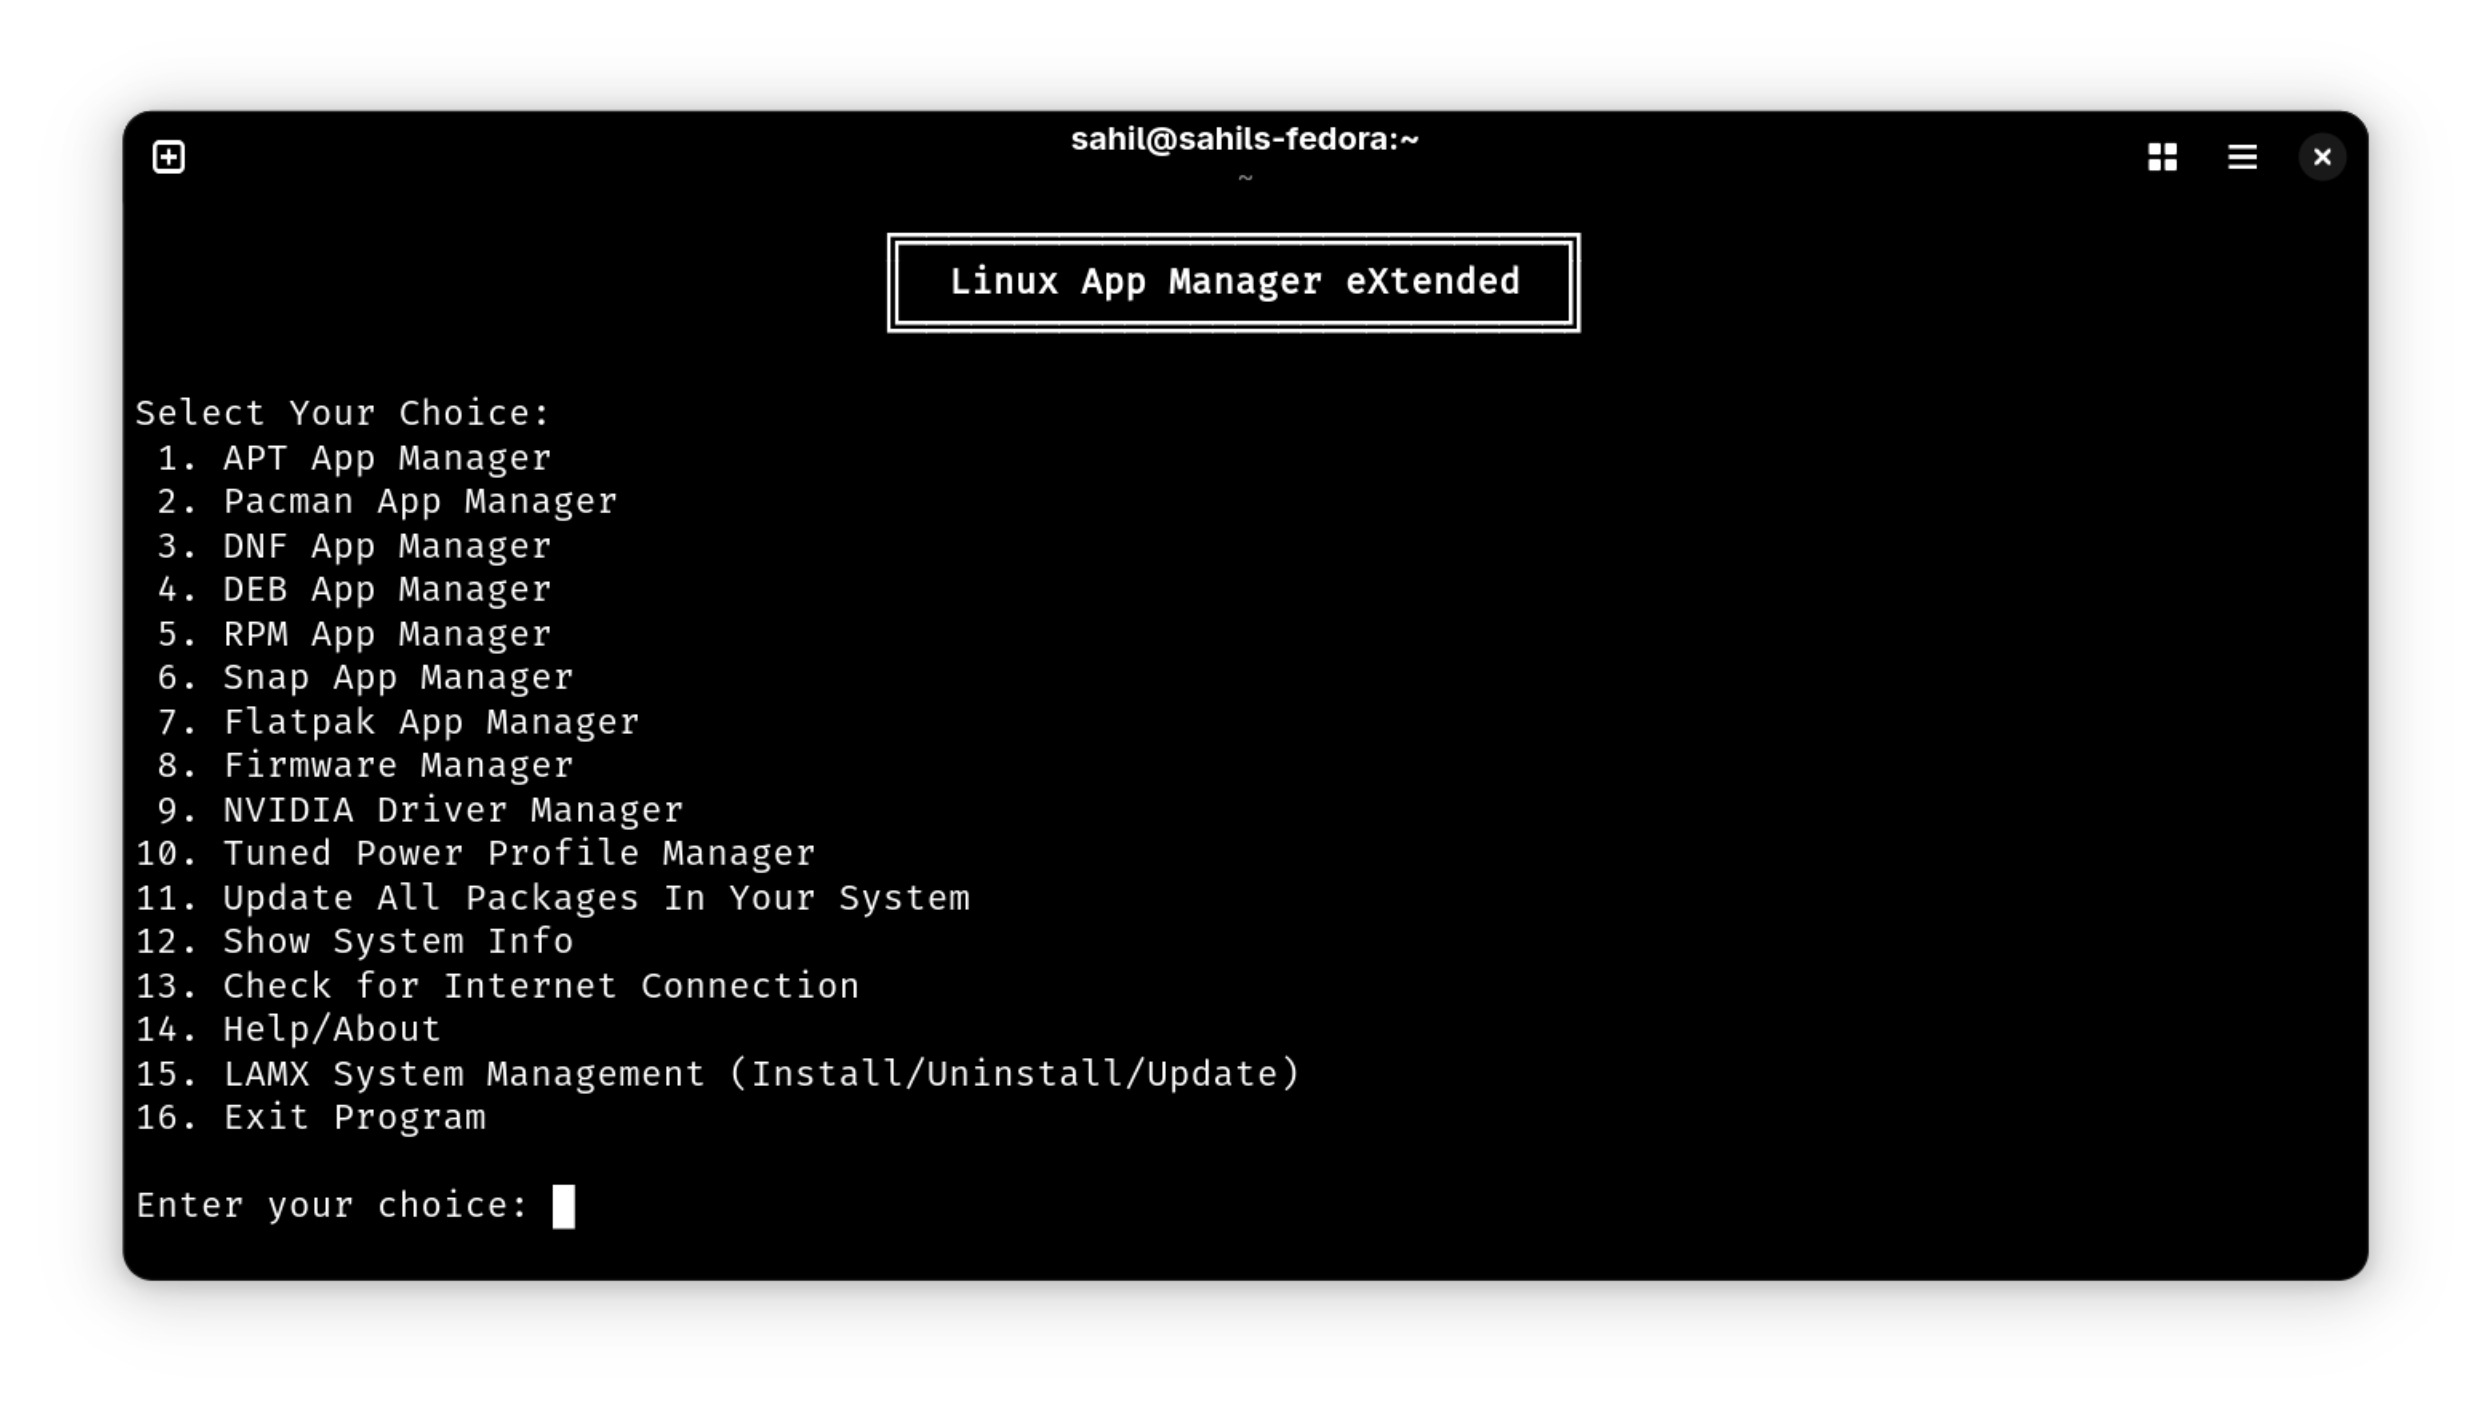
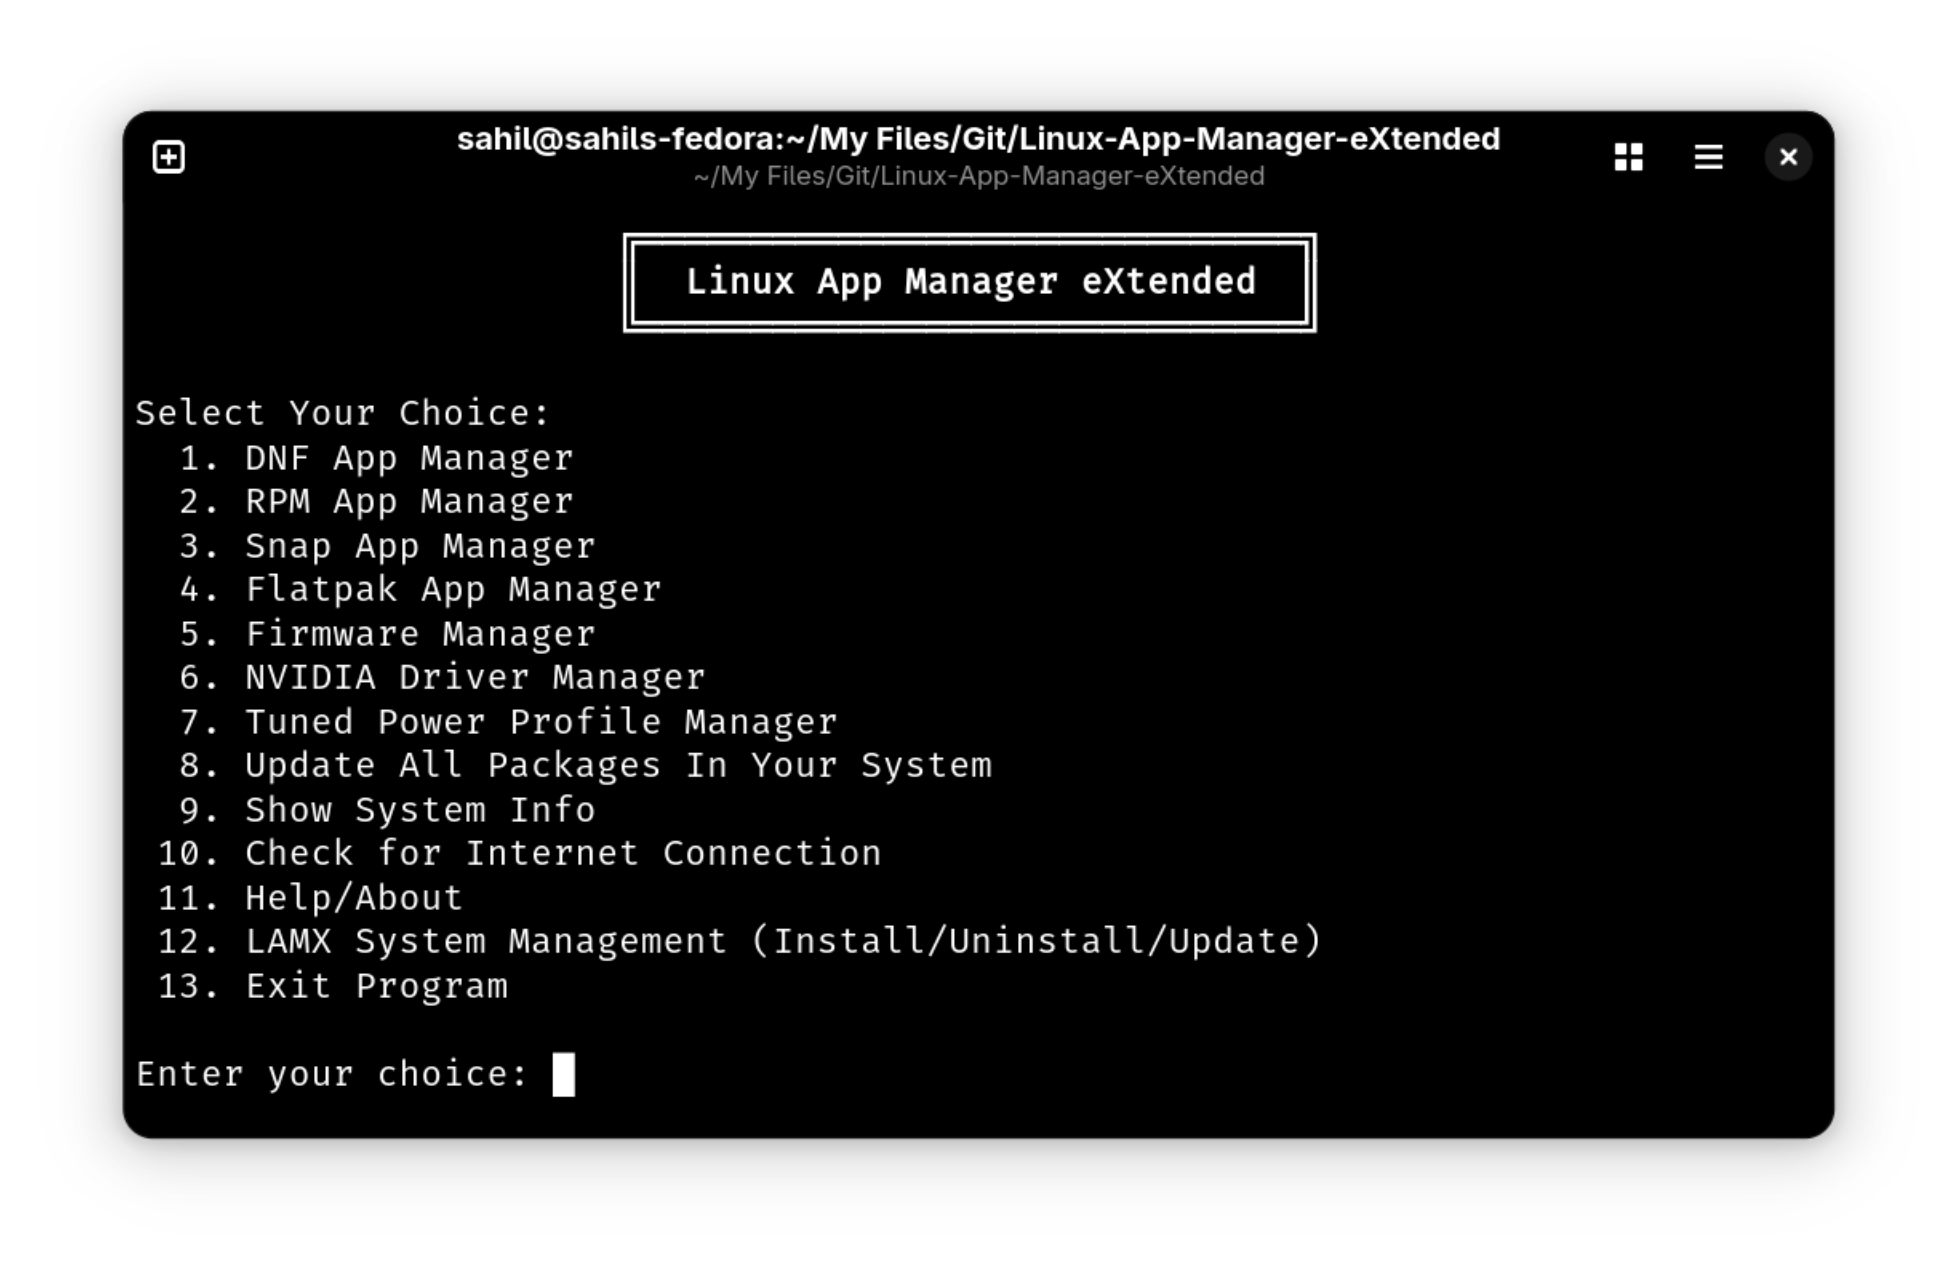
Make main menu show only package manager options available on the system (dynamic menu).

Changed region(s): [[0.0312, 0.0613, 0.9668, 0.9198]]

diff --git a/README.md b/README.md
@@ -30,6 +30,7 @@ LAMX is a powerful, interactive Bash script that helps you manage Linux applicat
 
 ## Main Features
 
+- Dynamic menu: only shows options for package managers and system tools detected on your system.
 - Manage apps using APT, Pacman, DNF, DEB, RPM, Snap, and Flatpak.
 - Update all packages across supported managers with one command.
 - Manage firmware updates and NVIDIA drivers.
@@ -40,9 +41,10 @@ LAMX is a powerful, interactive Bash script that helps you manage Linux applicat
 
 - Start LAMX with `./lamx`.
 - Type the number of the menu option you want and press Enter.
-- For installing, uninstalling, or updating LAMX itself, use option 15 in the main menu.
+- For installing, uninstalling, or updating LAMX itself, use the LAMX System Management option in the main menu.
+- You can only use the uninstall and update options after installing LAMX systemwide.
 - After installing systemwide, you can simply type `lamx` in any terminal to start the app.
-- For help or more information, use option 14.
+- For help or more information, use the Help/About option in the menu.
 
 ## Notes
 
